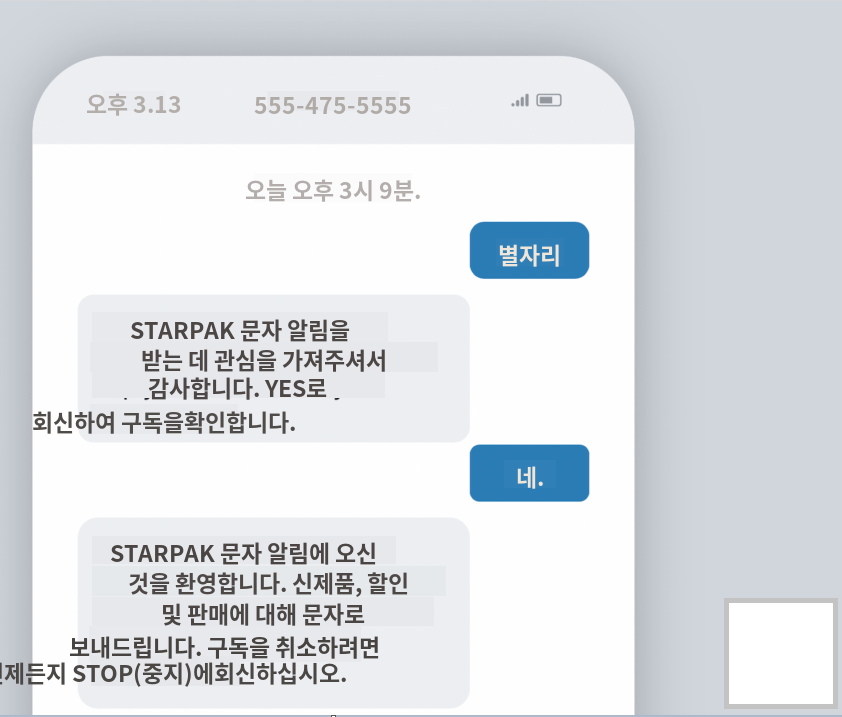
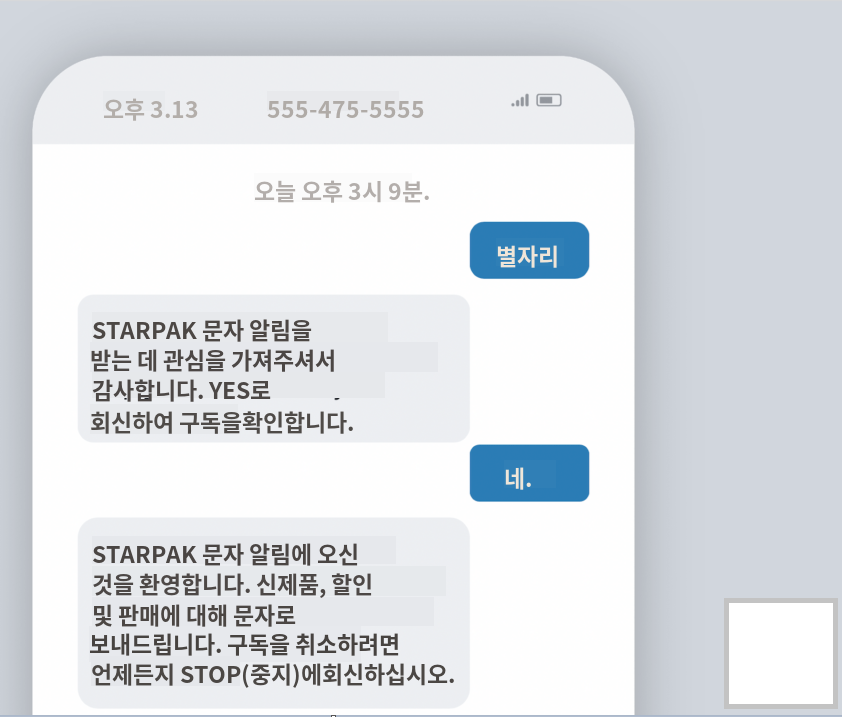
change rewrite

diff --git a/TEST_JW/test.py b/TEST_JW/test.py
@@ -17,7 +17,7 @@ import textwrap
 # Press Double Shift to search everywhere for classes, files, tool windows, actions, and settings.
 
 # 이미지 파일 경로
-file_path = r'airport-sign-set-vector-illustration-260nw-403667989.jpg'
+file_path = r'phone.png'
 img = cv2.imread(file_path, cv2.IMREAD_COLOR)
 
 # secret key 로 집어넣어야함
@@ -371,12 +371,12 @@ def rewrite(tranlated_texts, bbox_list, color_list):
         title_font = ImageFont.truetype("ttf/NotoSansKR-Bold.otf", np.maximum(2, int(bbox_hi[idx]) - 5))  # -가 될경우 최소 2로 설정.
         wi, hi = title_font.getsize(text)
 
-        print('bbox_hi[idx]-15', type(bbox_hi[idx] - 15))
-
-        print('title_font', title_font)
+        # print('bbox_hi[idx]-15', type(bbox_hi[idx] - 15))
+        #
+        # print('title_font', title_font)
         start_x = ((bbox[0][0] + bbox[1][0]) // 2 - wi / 2)
         start_y = ((bbox[0][1] + bbox[2][1]) // 2 - hi / 2)
-        image_editable.text((start_x, start_y), text, color, anchor=None, font=title_font)
+        image_editable.text((bbox[0][0], bbox[0][1]), text, color, anchor=None, font=title_font)
 
     save_rewrite_images(img)
 
